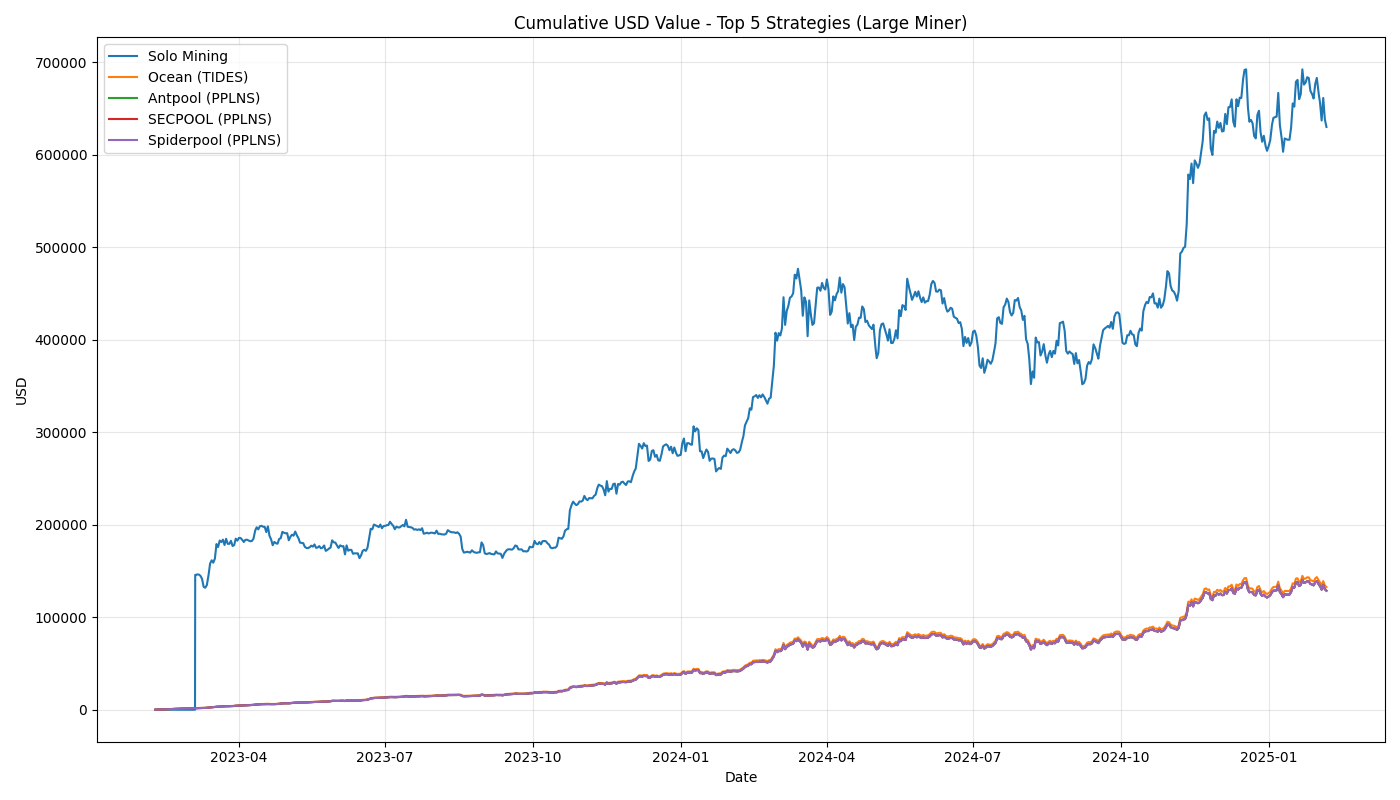
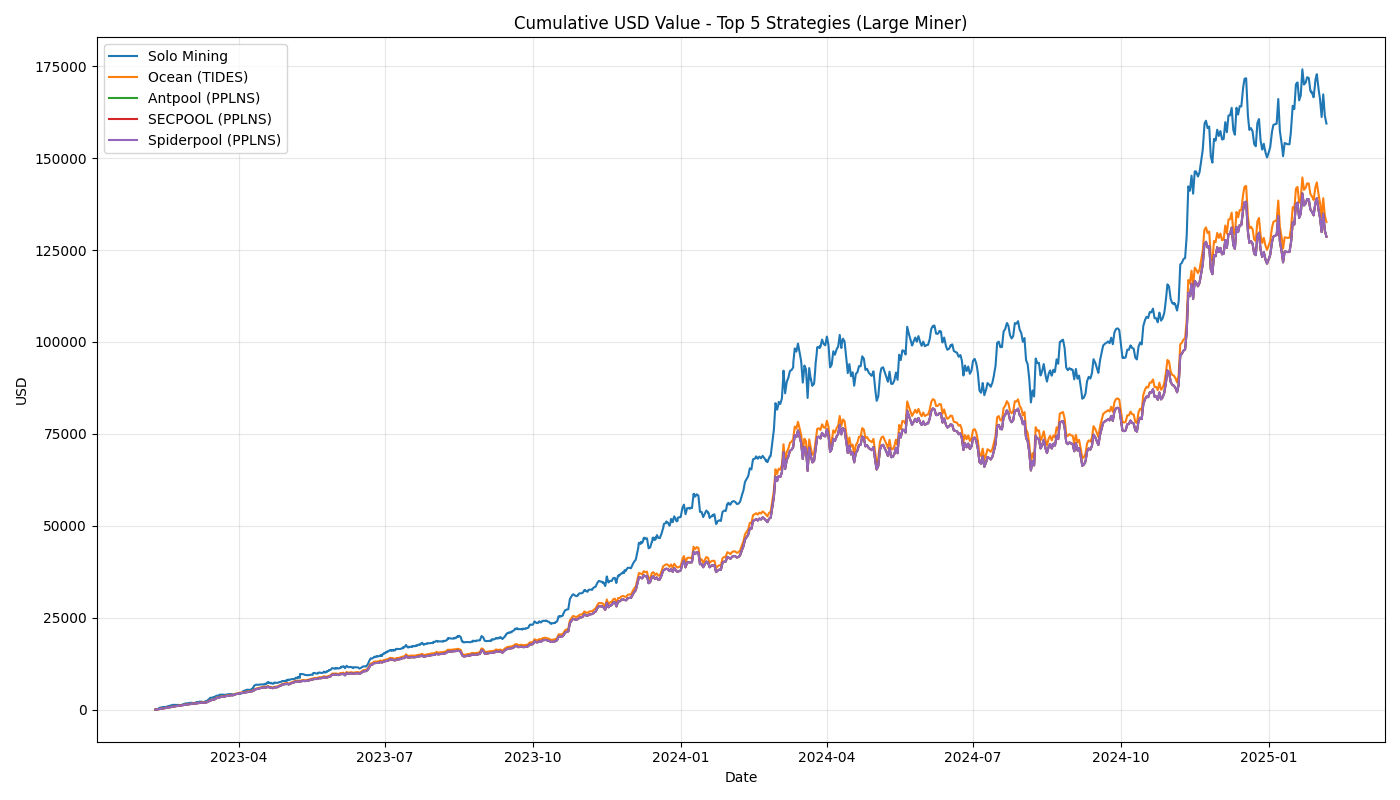
plots based on 1000 iterations pr size/strategy not just 1 iteration

diff --git a/data_and_scripts/strategies/strategies.py b/data_and_scripts/strategies/strategies.py
@@ -485,74 +485,100 @@ def create_mining_pool_strategies(miner_hashrate):
     ]
     return pool_strategies
 
-def run_mining_simulation(file_path, miner_size="Medium"):
+def run_mining_simulation(file_path, miner_size, num_iterations=10, random_seed_start=42):
     """
     Run the mining simulation for the given miner size.
     
     miner_size options: "Small", "Medium", "Large", "Industrial"
     Each is mapped to a specific miner hashrate (TH/s).
     """
-    miner_sizes = {
-        "Small": 10000,            # 10 PH/s
-        "Medium": 100000,          # 100 PH/s
-        "Large": 1000000,          # 1 EH/s
-        "Industrial": 10000000     # 10 EH/s
-    }
-    miner_hashrate = miner_sizes.get(miner_size, 10000)
-    print(f"Running simulation for {miner_size} miner with {miner_hashrate} TH/s")
+    print(f"Running simulation for {miner_size}")
     
     df = load_data(file_path)
+
+    all_combined_results = []
+    all_strategies = None
+
+    for i in range(num_iterations):
+        seed = random_seed_start + i 
+        np.random.seed(seed) 
+        random.seed(seed)
+
+        print(f"Iteration {i+1}/{num_iterations} with seed {seed}")
     
-    avg_network_hashrate = df['hash_rate'].mean() * 1000  # in TH/s
-    for size, hashrate in miner_sizes.items():
-        network_share = hashrate / avg_network_hashrate
-        blocks_in_period = 18
-        prob_per_period = 1 - (1 - network_share) ** blocks_in_period
-        expected_blocks = prob_per_period * len(df)
-        print(f"{size} miner: {network_share*100:.6f}% of network, {prob_per_period*100:.6f}% chance per period, expected {expected_blocks:.2f} blocks over dataset")
-    
-    strategies = create_mining_pool_strategies(miner_hashrate)
-    
-    results = {}
-    for strategy in strategies:
-        print(f"Simulating {strategy.name}...")
-        result_df = strategy.run_simulation(df)
-        results[strategy.name] = result_df
+        miner_sizes = {
+            "Small": 10000,          # 10 PH/s
+            "Medium": 100000,        # 100 PH/s
+            "Large": 1000000,        # 1 EH/s
+            "Industrial": 10000000   # 10 EH/s
+        }
+        miner_hashrate = miner_sizes.get(miner_size, 10000)
         
-        if isinstance(strategy, SoloMining) or isinstance(strategy, SoloPool):
-            blocks_found = getattr(strategy, 'blocks_found', 0)
-            print(f"{strategy.name} blocks found: {blocks_found}")
-            if blocks_found > 0 and hasattr(strategy, 'block_timestamps'):
-                print("Block find details:")
-                for i, (timestamp, reward) in enumerate(zip(strategy.block_timestamps, strategy.block_rewards)):
-                    print(f"  Block {i+1}: {timestamp} - {reward:.8f} BTC")
-            network_share = miner_hashrate / avg_network_hashrate
-            blocks_in_period = 18
-            prob_per_period = 1 - (1 - network_share) ** blocks_in_period
-            expected_blocks = prob_per_period * len(df)
-            print(f"Expected blocks: {expected_blocks:.2f}, Actual blocks: {blocks_found}")
-            print(f"Ratio: {blocks_found / expected_blocks if expected_blocks > 0 else 0:.2f}")
+        strategies = create_mining_pool_strategies(miner_hashrate)
+        if all_strategies is None:
+            all_strategies = strategies  # Keep reference to strategy objects
         
-        if isinstance(strategy, PoolHopping) and hasattr(strategy, 'pool_history'):
-            print(f"Pool hopping transitions: {len(strategy.pool_history)}")
-            if len(strategy.pool_history) > 0:
-                print("Top 5 pool transitions:")
-                for i, hop in enumerate(strategy.pool_history[:5]):
-                    print(f"  {i+1}: {hop['from_pool']} -> {hop['to_pool']} ({hop['improvement']:.2f}% improvement)")
+        # Run simulation for each strategy in this iteration
+        results = {}
+        for strategy in strategies:
+            print(f"  Simulating {strategy.name}...")
+            result_df = strategy.run_simulation(df)
+            results[strategy.name] = result_df
+            
+            # Log details for solo mining strategies
+            if isinstance(strategy, SoloMining) or isinstance(strategy, SoloPool):
+                blocks_found = getattr(strategy, 'blocks_found', 0)
+                print(f"  {strategy.name} blocks found in iteration {i+1}: {blocks_found}")
+        
+        # Combine results for this iteration
+        combined_results = pd.DataFrame(index=df.index)
+        
+        for strategy_name, result_df in results.items():
+            combined_results[f"{strategy_name}_reward"] = result_df["reward"]
+            combined_results[f"{strategy_name}_cumulative"] = result_df["cumulative_reward"]
+        
+        # Convert cumulative BTC rewards to USD
+        for strategy_name in [s.name for s in strategies]:
+            btc_cumulative = combined_results[f"{strategy_name}_cumulative"]
+            combined_results[f"{strategy_name}_cumulative_usd"] = btc_cumulative * df["BTC market price usd"]
+        
+        all_combined_results.append(combined_results)
     
-    # Combine all strategy results into one dataframe for further analysis.
-    combined_results = pd.DataFrame(index=df.index)
+    # Average the results from all iterations
+    averaged_results = average_simulation_results(all_combined_results, all_strategies)
     
-    for strategy_name, result_df in results.items():
-        combined_results[f"{strategy_name}_reward"] = result_df["reward"]
-        combined_results[f"{strategy_name}_cumulative"] = result_df["cumulative_reward"]
-    
-    # Convert cumulative BTC rewards to USD using BTC market price.
-    for strategy_name in [s.name for s in strategies]:
-        btc_cumulative = combined_results[f"{strategy_name}_cumulative"]
-        combined_results[f"{strategy_name}_cumulative_usd"] = btc_cumulative * df["BTC market price usd"]
-    
-    return combined_results, df, strategies
+    return averaged_results, df, all_strategies
+
+
+def average_simulation_results(all_combined_results, all_strategies):
+    """
+    Average the results accross all iterations
+
+    Parameters: 
+    ----------
+    all_combined_results: List of DataFrames containing the results from each iteration. 
+    all_strategies: List of strategy objects used in the simulation.
+
+    returns: 
+    -------- 
+    DataFrame : The averaged results
+    """
+
+    first_df = all_combined_results[0] 
+    averaged_results = pd.DataFrame(index=first_df.index) 
+
+    for strategy in all_strategies: 
+        reward_cols = [df[f"{strategy.name}_reward"] for df in all_combined_results] 
+        averaged_results[f"{strategy.name}_reward"] = sum(reward_cols) / len(reward_cols) 
+
+        cumul_cols = [df[f"{strategy.name}_cumulative"] for df in all_combined_results]
+        averaged_results[f"{strategy.name}_cumulative"] = sum(cumul_cols) / len(cumul_cols) 
+
+        usd_cols = [df[f"{strategy.name}_cumulative_usd"] for df in all_combined_results] 
+        averaged_results[f"{strategy.name}_cumulative_usd"] = sum(usd_cols) / len(usd_cols) 
+
+    return averaged_results
+
 
 # ============================================================================
 # ANALYSIS & VISUALIZATION FUNCTIONS
@@ -737,7 +763,7 @@ def compare_miner_sizes(all_results):
 # MAIN FUNCTION
 # ============================================================================
 
-def main():
+def main(num_iterations=10):
     file_path = 'bitcoin_metrics_and_energy_updated_final_manually_scaled.xlsx'
     miner_sizes = ["Small", "Medium", "Large", "Industrial"]
     
@@ -746,7 +772,7 @@ def main():
     for miner_size in miner_sizes:
         print(f"Running analysis for {miner_size} miner")
         
-        combined_results, original_df, strategies = run_mining_simulation(file_path, miner_size)
+        combined_results, original_df, strategies = run_mining_simulation(file_path, miner_size, num_iterations)
         analysis = analyze_results(combined_results, original_df, strategies, miner_size)
         
         print(f"\nSummary for {miner_size} miner (Top 10 strategies):")
@@ -755,9 +781,18 @@ def main():
         all_results[miner_size] = analysis
     
     comparison = compare_miner_sizes(all_results)
+
+    for key in comparison:
+        if isinstance(comparison[key], pd.DataFrame):
+            plot_path = f"plots/{key}_iter{num_iterations}.png"
+            comparison[key].plot(kind='bar', figsize=(16, 10))
+            plt.title(f"{key.replace('_', ' ').title()} ({num_iterations} iterations)")
+            plt.tight_layout()
+            plt.savefig(plot_path)
+            plt.close()
     
     return all_results
 
 if __name__ == "__main__":
-    all_results = main()
+    all_results = main(num_iterations=1000)
 
